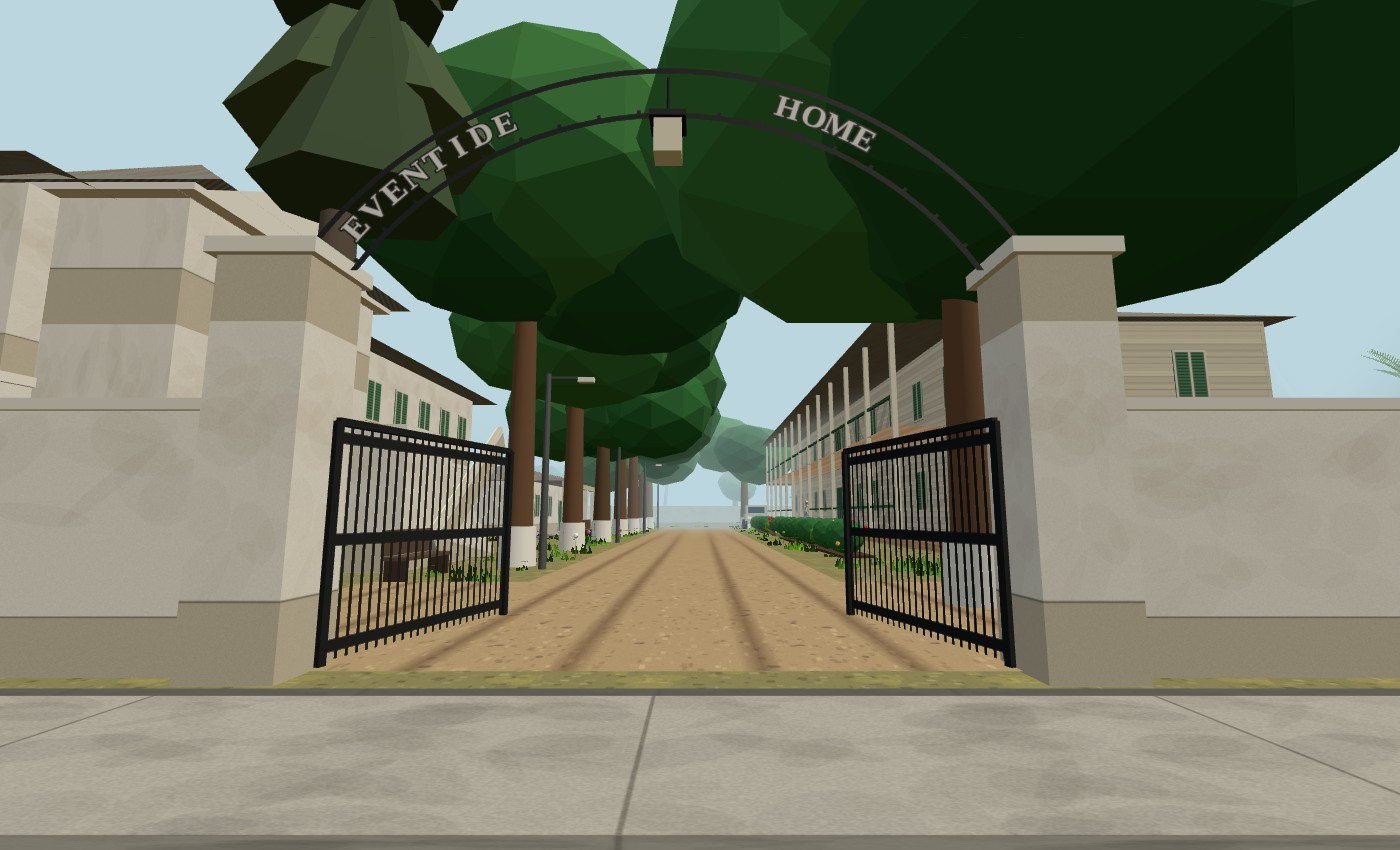
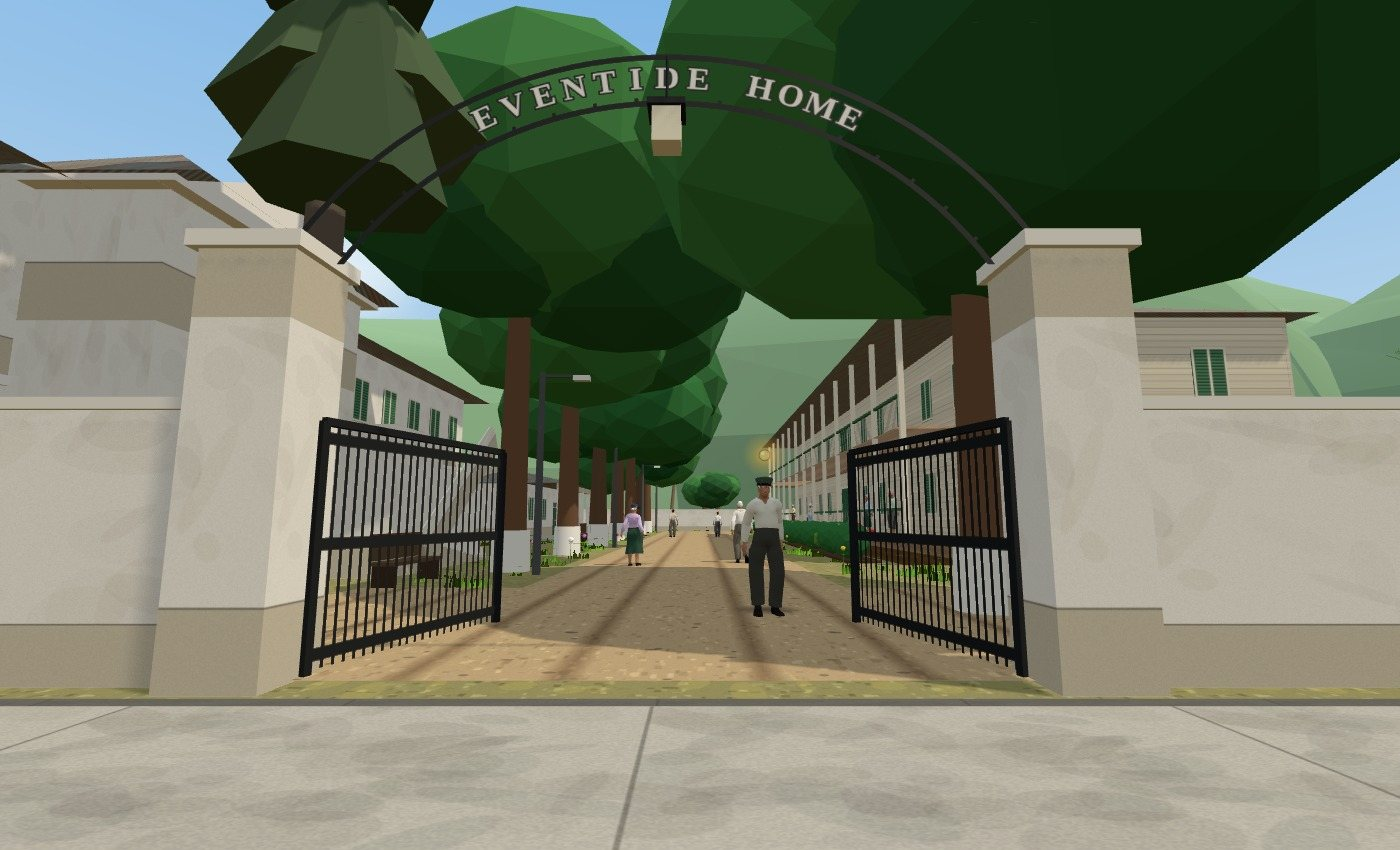
Eventide: centre EVENTIDE HOME on the gate arch, new menu card
The two words were placed from separate start angles, so the line sat
left of the top of the arch. They are now one evenly spaced line centred
on the top, as in the photograph. The menu card is drawn again from the
gate1 view.

Claude-Session: https://claude.ai/code/session_015MP9pWGfsFxkoGPySneh4o

diff --git a/games/eventide/src/places.js b/games/eventide/src/places.js
@@ -175,8 +175,8 @@ function gateArch(span, rise) {
     for (const rr of [R, R - 0.46]) { x.beginPath(); x.arc(ox, oy, rr * px, Math.PI + 0.42, Math.PI * 2 - 0.42); x.stroke(); }
     x.lineWidth = 5; for (let a = Math.PI + 0.5; a < Math.PI * 2 - 0.45; a += 0.11) { x.beginPath(); x.moveTo(ox + Math.cos(a) * (R - 0.46) * px, oy + Math.sin(a) * (R - 0.46) * px); x.lineTo(ox + Math.cos(a) * (R - 0.4) * px, oy + Math.sin(a) * (R - 0.4) * px); x.stroke(); }
     const put = (ch2, a) => { x.save(); x.translate(ox + Math.cos(a) * (R - 0.23) * px, oy + Math.sin(a) * (R - 0.23) * px); x.rotate(a + Math.PI / 2); x.font = '700 44px Georgia, serif'; x.textAlign = 'center'; x.textBaseline = 'middle'; x.lineWidth = 5; x.strokeStyle = '#25272a'; x.strokeText(ch2, 0, 0); x.fillStyle = '#f2efe6'; x.fillText(ch2, 0, 0); x.restore(); };
-    'EVENTIDE'.split('').forEach((c, i) => put(c, Math.PI * 1.215 + i * 0.066));
-    'HOME'.split('').forEach((c, i) => put(c, Math.PI * 1.6 + i * 0.07));
+    const words = 'EVENTIDE HOME', step = 0.078, a0 = Math.PI * 1.5 - (words.length - 1) * step / 2;   /* one line, centred on the top of the arch, as in the photograph */
+    words.split('').forEach((c, i) => { if (c !== ' ') put(c, a0 + i * step); });
   });
   void cy; const m = new THREE.MeshStandardMaterial({ map: tex, transparent: true, alphaTest: 0.35, ...DS, roughness: 0.6 });
   return { mesh: new THREE.Mesh(new THREE.PlaneGeometry(W, H), m), W, H };
